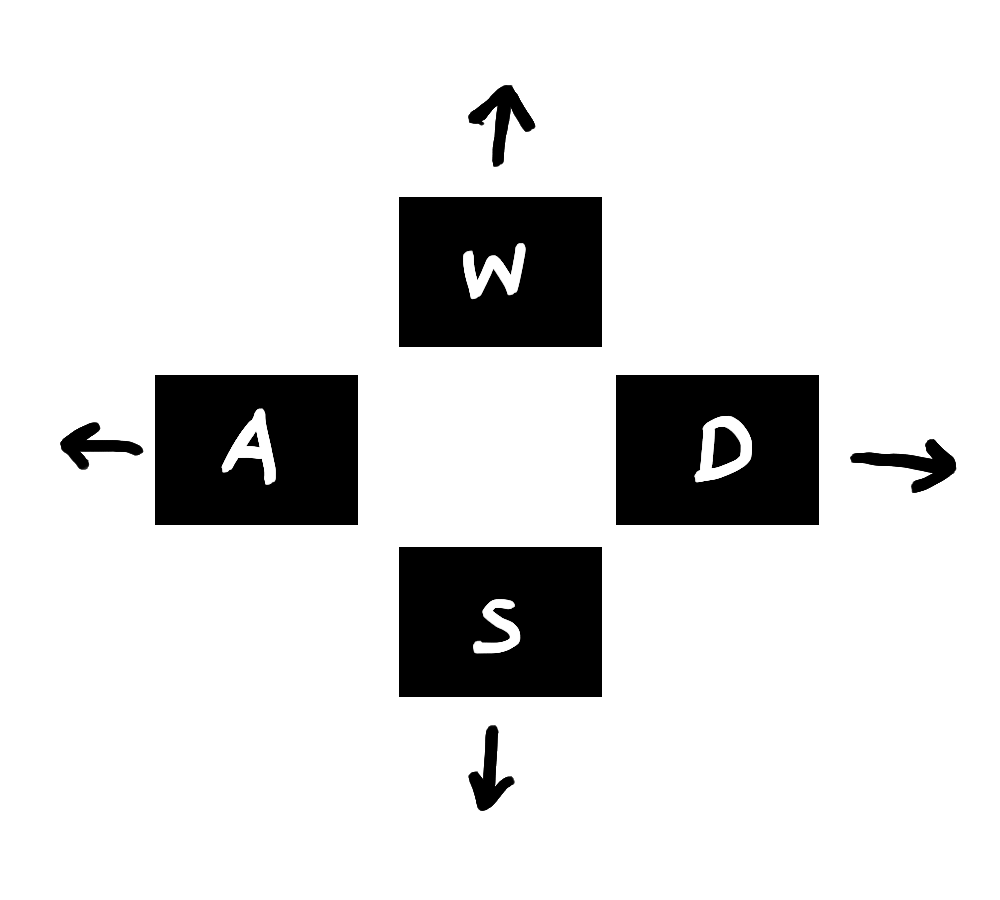
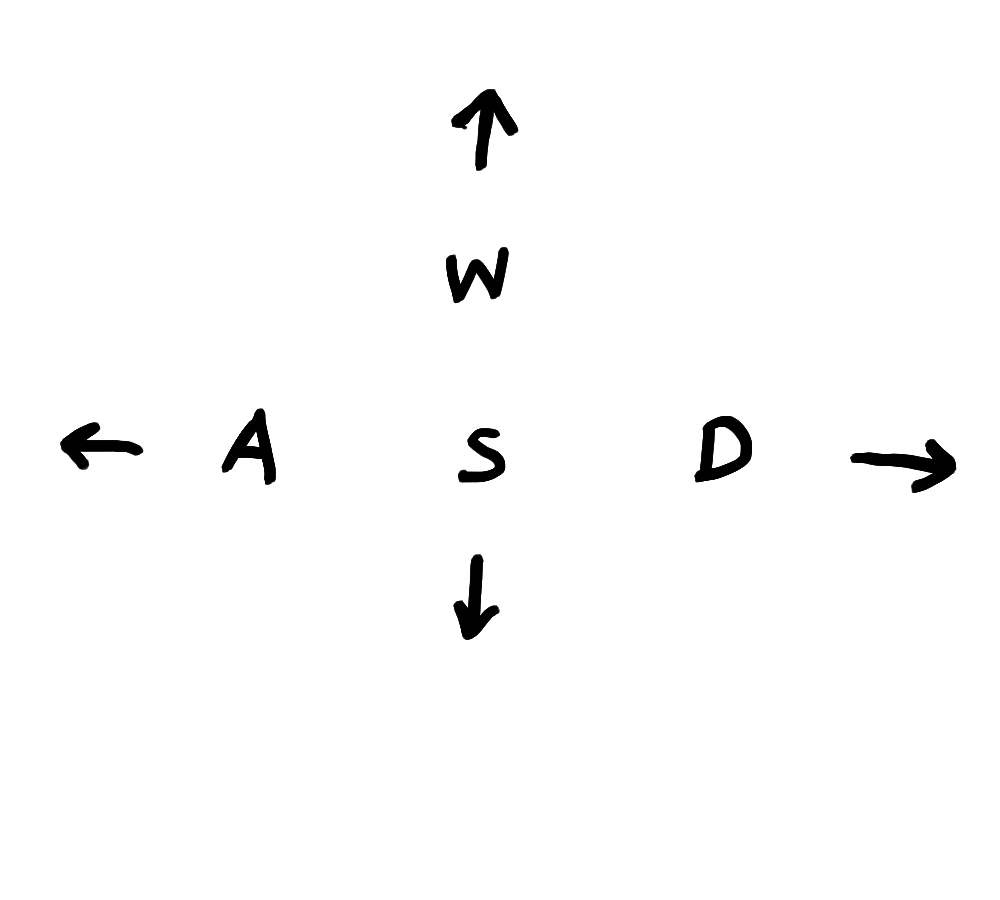
implemented tutorial

diff --git a/Protect the Cube/Assets/Scripts/Core/GameManager.cs b/Protect the Cube/Assets/Scripts/Core/GameManager.cs
@@ -99,11 +99,11 @@ public class GameManager : MonoBehaviour
     private IEnumerator WaitForMovementInput()
     {
         yield return new WaitForSeconds(2.0f); // free movement for 3 seconds
-        // UIManager.Tutorial_ShowMovementUI(); // Shows the Animated 4 WASD KEys
+        UIManager.Tutorial_ShowMovementUI(); // Shows the Animated 4 WASD KEys
         Player.GetComponent<PlayerController>().UnlockMovement();
         yield return new WaitUntil(() => PlayerController.HasPressedMovementKeys());        
         yield return new WaitForSeconds(3.0f); // free movement for 3 seconds
-        // UIManager.Tutorial_HideMovementUI(); // hide WASD movement keys
+        UIManager.Tutorial_HideMovementUI(); // hide WASD movement keys
         Debug.Log("Ending GamePhase.BasicTutorial_Movement Phase");
         SetGamePhase(GamePhase.BasicTutorial_Shooting);
     }
@@ -122,13 +122,13 @@ public class GameManager : MonoBehaviour
         WaveManager.SetConstantXPDrops(4);
         Player.GetComponent<PlayerController>().LockMovement();
 
-        // UIManager.Tutorial_ShowShootingUI(); // show shooting UI
+        UIManager.Tutorial_ShowShootingUI(); // show shooting UI
         Player.GetComponent<PlayerController>().UnlockShooting();
 
         // continue when player has shot + all enemies are dead
         yield return new WaitUntil(() => PlayerController.HasShotOnce() && WaveManager.AllEnemiesKilled());
 
-        // UIManager.Tutorial_HideShootingUI(); // hide shooting UI
+        UIManager.Tutorial_HideShootingUI(); // hide shooting UI
         Debug.Log("Ending GamePhase.BasicTutorial_Shooting Phase");
         SetGamePhase(GamePhase.BasicTutorial_XP);
     }
@@ -137,8 +137,7 @@ public class GameManager : MonoBehaviour
     {
         Debug.Log("Starting GamePhase.BasicTutorial_XP Phase");
         UIManager.ActivateEXPUI();
-        // UIManager.Tutorial_ShowXPBounceArrow; // show xp UI
-        // UIManager.Tutorial_HideXPBounceArrow; // show xp UI ... tbh we need to hide this in add_exp function under playerLevels (more accurate)
+        UIManager.Tutorial_ShowXPUI(new Vector3(12.0f, 1.0f, 0.0f)); // show xp UI
         Debug.Log("Ending GamePhase.BasicTutorial_XP Phase");
         SetGamePhase(GamePhase.BasicTutorial_Reward);
     }
@@ -146,7 +145,7 @@ public class GameManager : MonoBehaviour
     private void StartRewardTutorial()
     {
         Debug.Log("Starting GamePhase.BasicTutorial_Reward Phase");
-        //StartCoroutine(WaitForRewardScreenEnd());
+        StartCoroutine(WaitForRewardScreenEnd());
         Debug.Log("Ending GamePhase.BasicTutorial_Reward Phase");
         SetGamePhase(GamePhase.BasicTutorial_Placement);
     }
@@ -163,13 +162,10 @@ public class GameManager : MonoBehaviour
     {
         Debug.Log("Starting GamePhase.BasicTutorial_Placement Phase");
 
-        // UIManager.Tutorial_ShowInventoryBouncingArrow; // show
-
-        //Player.GetComponent<PlayerController>().LockMovement();
-        //Player.GetComponent<PlayerController>().LockShooting();
+        Player.GetComponent<PlayerController>().LockMovement();
+        Player.GetComponent<PlayerController>().LockShooting();
         //StartCoroutine(WaitForPlacementInput());
 
-        // UIManager.Tutorial_HideInventoryBouncingArrow; // hide
         Debug.Log("Ending GamePhase.BasicTutorial_Placement Phase");
         SetGamePhase(GamePhase.HandCraftedWaves);
     }
@@ -200,7 +196,7 @@ public class GameManager : MonoBehaviour
         Player.GetComponent<PlayerController>().UnlockShooting();
         WaveManager.UnlockAllEnemiesMovement();
 
-        // SetGamePhase(GamePhase.HandCraftedWaves);
+        //SetGamePhase(GamePhase.HandCraftedWaves);
     }
 
     /////////////////////////////

diff --git a/Protect the Cube/Assets/Scripts/Core/UIManager.cs b/Protect the Cube/Assets/Scripts/Core/UIManager.cs
@@ -45,7 +45,6 @@ public class UIManager : MonoBehaviour
     private InventoryManager inventoryManager;
     private GameObject minimap;
     private GameObject uiObject;
-    private GameObject inventoryBar;
     private GameObject expBar;
     
     public bool pauseMenuActive = false;
@@ -221,8 +220,12 @@ private void Awake()
         ActivateInventoryUI(); // tutorial
         Time.timeScale = 1.0f;
         inventoryBar.SetActive(true);
+        if (!firstRewardScreenEnded)
+        {
+            ShowSelectGunTutorial(); // show tutorial text (first time only
+            firstRewardScreenEnded = true;
+        }
         expBar.SetActive(true);
-        firstRewardScreenEnded = true;
     }
 
     public void ShowUpgradeScreen()
@@ -239,13 +242,14 @@ private void Awake()
 
     public void ShowSelectGunTutorial()
     {
-        SelectGunTutorialUI.SetActive(true);
-        
+        //SelectGunTutorialUI.SetActive(true);
+        inventoryArrow.SetActive(true);
     }
 
     public void HideSelectGunTutorial()
     {
-        SelectGunTutorialUI.SetActive(false);
+        //SelectGunTutorialUI.SetActive(false);
+        inventoryArrow.SetActive(false);
     }
 
     public void ShowXPTutorial()
@@ -280,7 +284,7 @@ private void Awake()
         xpArrow.SetActive(true);
         Vector3 screenPos = Camera.main.WorldToScreenPoint(pos);
         screenPos.y += xpArrowOffset;
-        xpArrow.transform.position = pos;
+        xpArrow.transform.position = screenPos;
     }
 
     public void Tutorial_HideXPUI()

diff --git a/Protect the Cube/Assets/Scripts/PlayerLevels.cs b/Protect the Cube/Assets/Scripts/PlayerLevels.cs
@@ -74,6 +74,7 @@ public class PlayerLevels : MonoBehaviour
                 
 
             }
+            GameManager.Instance.UIManager.Tutorial_HideXPUI(); // hide xp UI
         }
         else if (Orb.tag == "GoldOrb"){
             currentGold += resource_gained;
